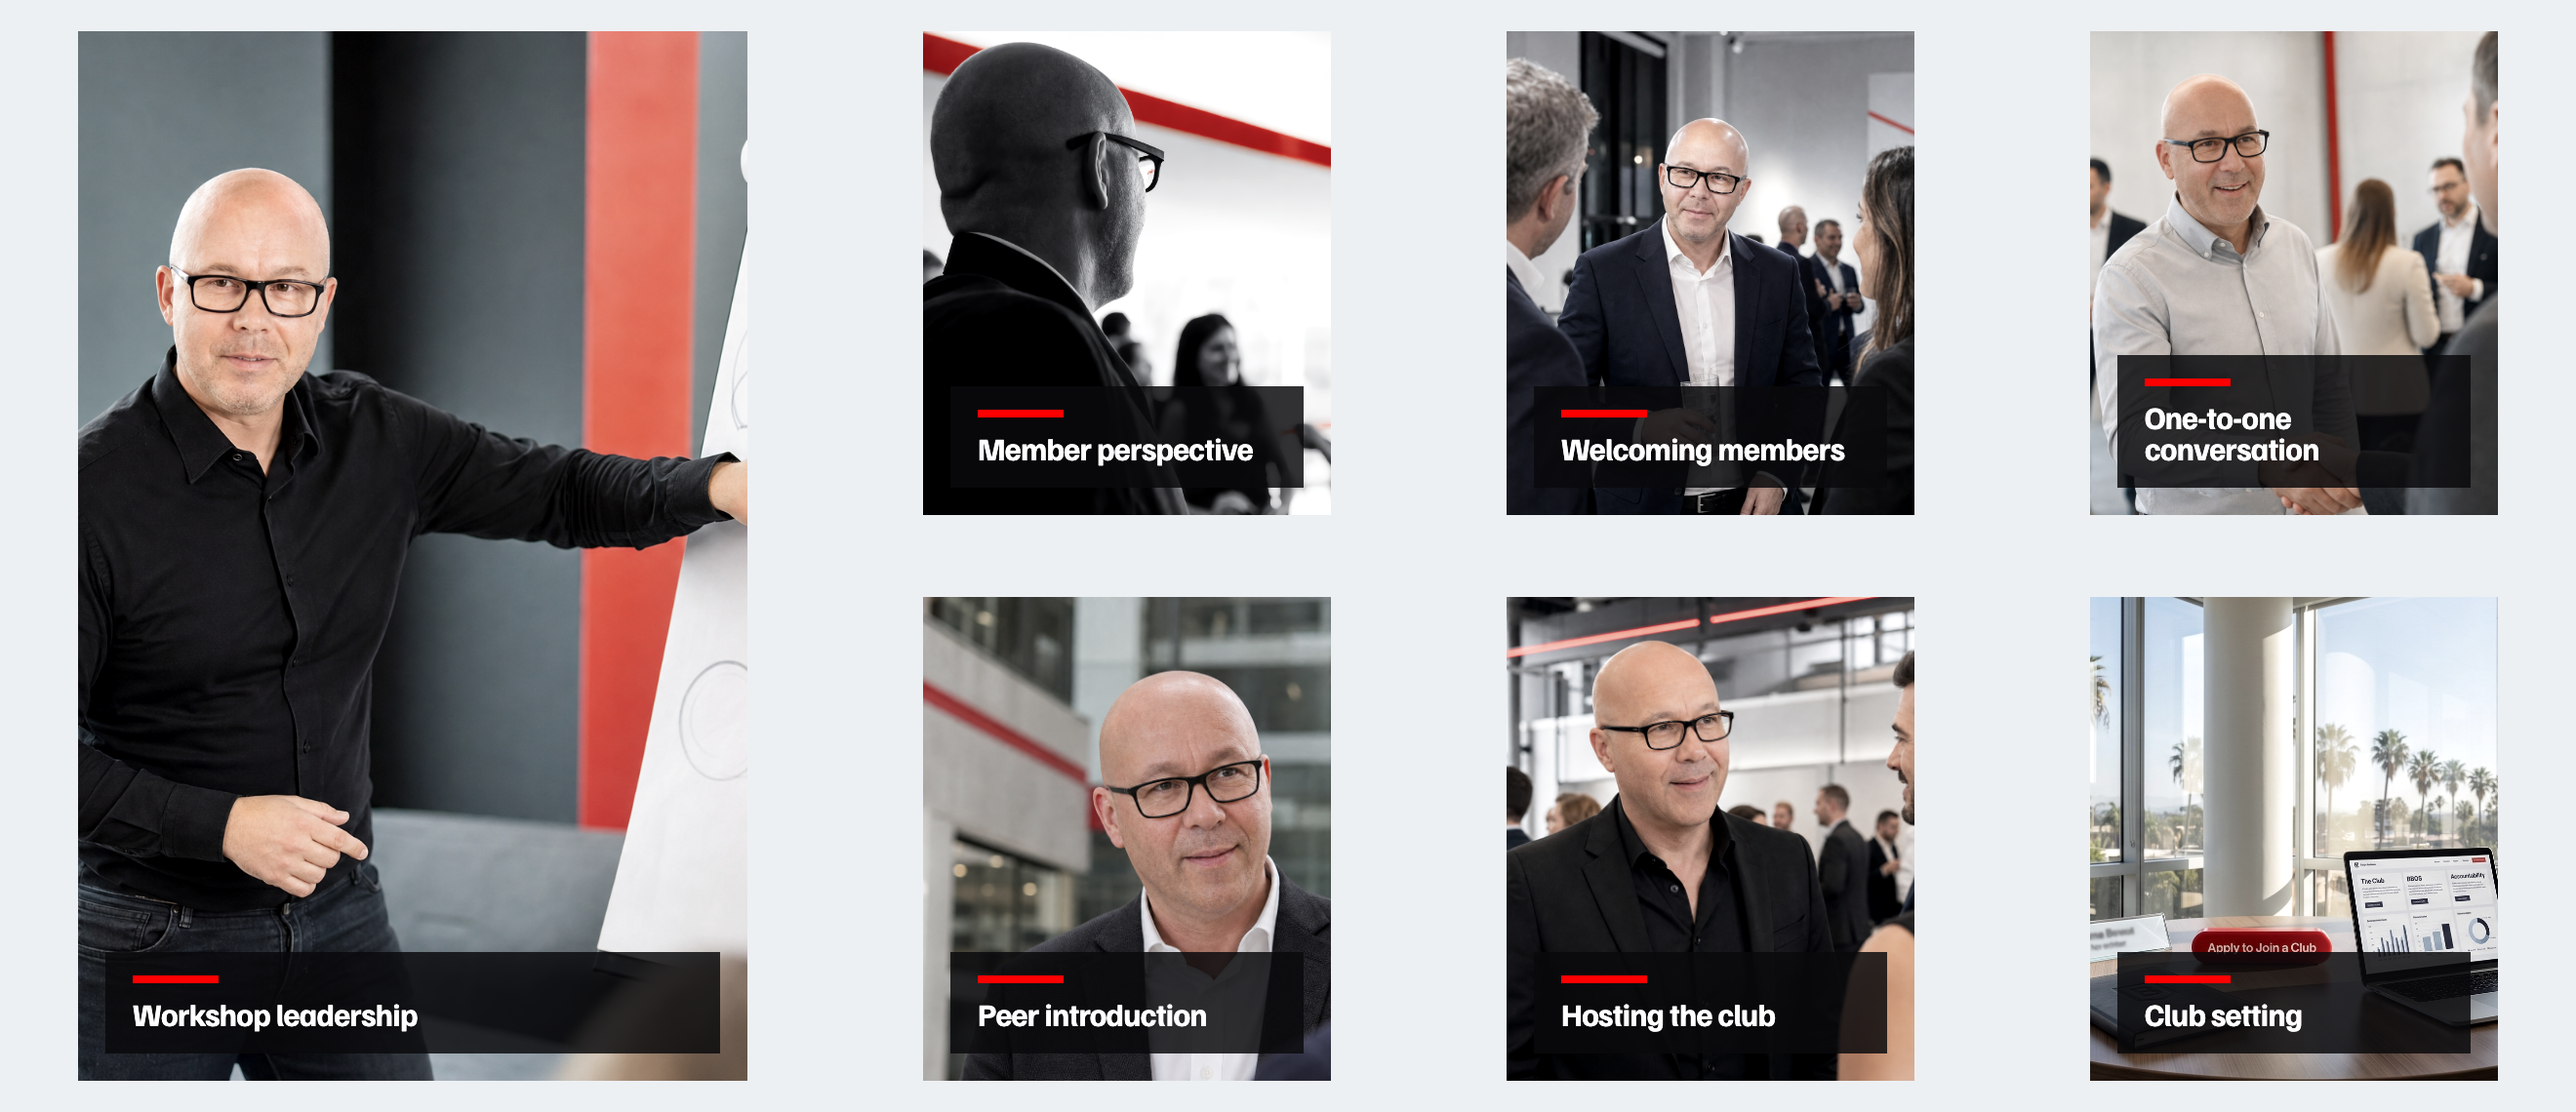
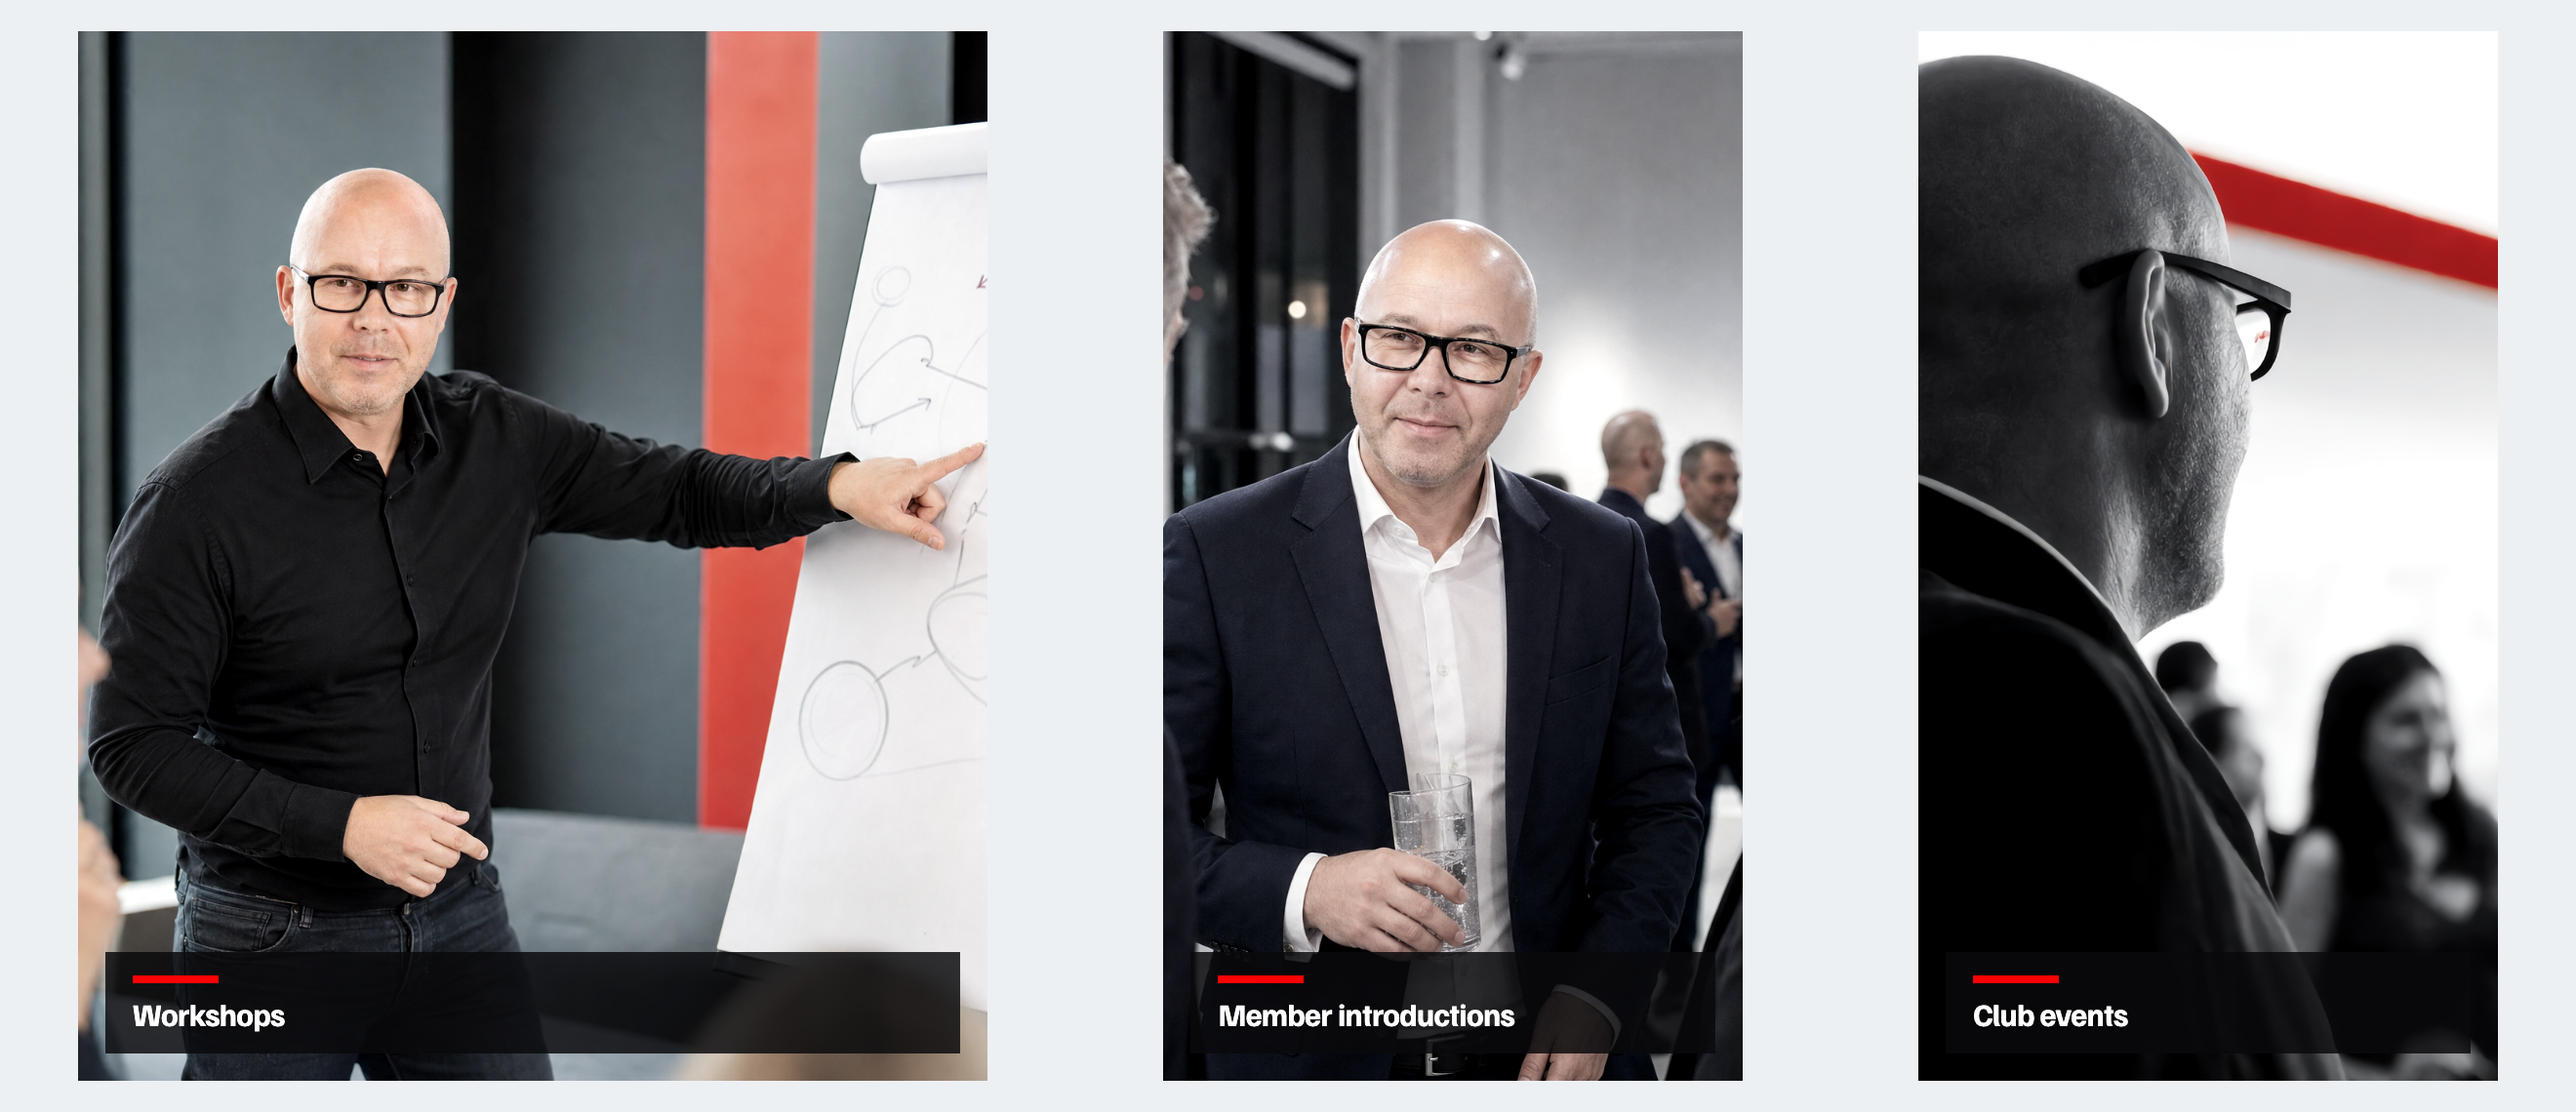
Simplify Bright Business reveal ending

diff --git a/bright-business/index.html b/bright-business/index.html
@@ -1618,8 +1618,8 @@
     }
     .community-grid {
       display: grid;
-      grid-template-columns: 1.2fr .82fr .82fr .82fr;
-      grid-template-rows: repeat(2, minmax(0, 1fr));
+      grid-template-columns: 1.45fr 1fr 1fr;
+      grid-template-rows: minmax(0, 1fr);
       gap: 10px;
       height: min(62vh, 570px);
     }
@@ -1629,8 +1629,6 @@
       overflow: hidden;
       background: #17181c;
     }
-    .community-card.lead { grid-row: 1 / -1; }
-    .community-card.wide { grid-column: span 2; }
     .community-card img { width: 100%; height: 100%; object-fit: cover; filter: saturate(.74) contrast(1.06); }
     .community-card figcaption {
       position: absolute;
@@ -1724,6 +1722,52 @@
     }
     .editorial-card-copy span { color: #5c616d; font: 400 .68rem/1.35 "Poppins", sans-serif; }
 
+    .editorial-portrait-scene {
+      position: relative;
+      min-height: 100svh;
+      padding: 0;
+      align-items: stretch;
+      overflow: hidden;
+    }
+    .editorial-portrait-scene > img {
+      position: absolute;
+      inset: 0;
+      width: 100%;
+      height: 100%;
+      object-fit: cover;
+      object-position: 50% 50%;
+      filter: contrast(1.04);
+    }
+    .editorial-portrait-scene::after {
+      content: "";
+      position: absolute;
+      inset: 0;
+      background: linear-gradient(90deg, rgba(7,7,9,.9) 0 31%, rgba(7,7,9,.32) 56%, transparent 78%);
+      pointer-events: none;
+    }
+    .editorial-portrait-scene .inner {
+      position: relative;
+      z-index: 1;
+      width: min(1320px, 100%);
+      display: flex;
+      align-items: flex-end;
+      padding-top: 88px;
+      padding-bottom: clamp(72px, 9vh, 110px);
+    }
+    .editorial-portrait-copy { max-width: 560px; }
+    .editorial-portrait-copy .kicker { color: #d0d3d9; }
+    .editorial-portrait-copy .statement {
+      max-width: 9ch;
+      margin-top: 16px;
+      font-size: clamp(3.5rem, 7vw, 7.7rem);
+      line-height: .88;
+    }
+    .editorial-portrait-copy .body {
+      max-width: 36ch;
+      margin-top: 24px;
+      color: #d0d3d9;
+    }
+
     .finale-scene {
       min-height: 100svh;
       padding: 0;
@@ -1733,11 +1777,13 @@
     }
     .finale-scene .inner {
       width: 100%;
-      display: grid;
-      grid-template-columns: minmax(440px, .82fr) minmax(0, 1.18fr);
+      min-height: 100svh;
+      display: flex;
+      align-items: stretch;
       padding: 0;
     }
     .finale-copy {
+      width: 100%;
       display: flex;
       flex-direction: column;
       justify-content: center;
@@ -1749,34 +1795,10 @@
       font: 700 clamp(3.6rem, 7vw, 7.8rem)/.86 "Familjen Grotesk", sans-serif;
       letter-spacing: -.06em;
     }
-    .finale-copy p { max-width: 38ch; margin-top: 24px; color: #d1d4da; font: 400 .92rem/1.55 "Poppins", sans-serif; }
-    .finale-apps {
-      display: flex;
-      flex-wrap: wrap;
-      gap: 8px;
-      margin-top: 32px;
-    }
-    .finale-apps span {
-      padding: 8px 11px;
-      border: 1px solid rgba(255,255,255,.28);
-      font: 500 .64rem/1 "Poppins", sans-serif;
-      letter-spacing: .08em;
-      text-transform: uppercase;
-    }
-    .finale-media { position: relative; min-height: 100svh; overflow: hidden; }
-    .finale-media img { width: 100%; height: 100%; object-fit: cover; object-position: 50% 50%; filter: saturate(.72) contrast(1.06); }
-    .finale-media::after {
-      content: "";
-      position: absolute;
-      inset: 0;
-      background: linear-gradient(90deg, rgba(66,65,78,.74), transparent 22%);
-      pointer-events: none;
-    }
     .finale-join {
-      position: absolute;
-      z-index: 2;
-      right: clamp(30px, 5vw, 72px);
-      bottom: clamp(30px, 5vw, 64px);
+      display: inline-flex;
+      align-self: flex-start;
+      margin-top: 36px;
       padding: 14px 22px;
       border-radius: 999px;
       background: var(--red);
@@ -1824,14 +1846,10 @@
       .social-card { min-height: 420px; }
       .community-grid { grid-template-columns: 1fr 1fr; }
       .community-card { min-height: 320px; }
-      .community-card.lead { grid-row: auto; }
-      .community-card.wide { grid-column: span 1; }
       .editorial-grid { grid-template-columns: 1fr; }
       .editorial-lead { min-height: 560px; }
       .editorial-stack { min-height: 620px; }
-      .finale-scene .inner { grid-template-columns: 1fr; }
-      .finale-copy { min-height: 62svh; }
-      .finale-media { min-height: 70svh; }
+      .finale-copy { min-height: 100svh; }
     }
 
     .chapter-toggle {
@@ -2036,7 +2054,8 @@
         position: sticky;
         top: 0;
         height: auto;
-        padding: 16px 16px 8px;
+        min-height: 72px;
+        padding: 16px 16px 8px 72px;
         background: color-mix(in srgb, var(--star-ink) calc((1 - var(--star-t)) * 100%), var(--star-paper) calc(var(--star-t) * 100%));
       }
       .star-rail {
@@ -2112,7 +2131,7 @@
     <section class="scene black" data-chapter="intro">
       <div class="inner">
         <p class="kicker reveal">Brand Therapy</p>
-        <h2 class="statement reveal delay">A new direction for Bright Business</h2>
+        <h2 class="statement reveal delay">Your Brand Therapy is ready</h2>
         <p class="body reveal delay">The strategy comes first. Then a visual system for how Florin and Bright Business show up everywhere.</p>
       </div>
     </section>
@@ -2300,10 +2319,9 @@
       <div class="inner">
         <div class="system-head">
           <div>
-            <p class="kicker reveal">Founder image system</p>
-            <h2 class="statement reveal delay">One image system across six roles</h2>
+            <p class="kicker reveal">Photography</p>
+            <h2 class="statement reveal delay">The photographs Florin will need</h2>
           </div>
-          <p class="body reveal delay">Portrait, press, workshop, host, social, and editorial images give each channel the right view of Florin without changing the visual language.</p>
         </div>
         <div class="founder-photo-grid reveal delay">
           <figure class="founder-photo-card lead">
@@ -2381,42 +2399,32 @@
       <div class="inner">
         <div class="system-head">
           <div>
-            <p class="kicker reveal">Community and event system</p>
-            <h2 class="statement reveal delay">Show the work inside the club</h2>
+            <p class="kicker reveal">Community and events</p>
+            <h2 class="statement reveal delay">Workshops, introductions, and club events</h2>
           </div>
-          <p class="body reveal delay">Workshops, introductions, peer conversations, and club settings make the member experience visible.</p>
         </div>
         <figure class="fixed-application reveal delay">
-          <img src="media/fixed/community-system.png" alt="Fixed community and event image system for Bright Business Club">
+          <img src="media/fixed/community-system.png" alt="Workshop, member introduction, and club event photography for Bright Business Club">
         </figure>
       </div>
     </section>
-    <section class="scene editorial-scene fixed-application-scene" data-chapter="brand">
+    <section class="scene editorial-scene editorial-portrait-scene" data-chapter="brand">
+      <img src="media/approved/artistic-reflection.png" alt="Editorial portrait of Florin Diumea">
       <div class="inner">
-        <div class="system-head">
-          <div>
-            <p class="kicker reveal">Founder editorial system</p>
-            <h2 class="statement reveal delay">A publishing system between events</h2>
-          </div>
-          <p class="body reveal delay">Working notes, reflections, and candid images let Florin stay visible without turning every post into a campaign.</p>
+        <div class="editorial-portrait-copy">
+          <p class="kicker reveal">Editorial</p>
+          <h2 class="statement reveal delay">Florin, between events</h2>
+          <p class="body reveal delay">Working notes. Essays. Candid photographs.</p>
         </div>
-        <figure class="fixed-application reveal delay">
-          <img src="media/fixed/editorial-system.png" alt="Fixed editorial feature, working note, and candid artwork system for Florin Diumea">
-        </figure>
       </div>
     </section>
 
     <section class="scene finale-scene" data-chapter="brand">
       <div class="inner">
         <div class="finale-copy">
-          <p class="kicker reveal">The complete system</p>
+          <p class="kicker reveal">Bright Business Club</p>
           <h2 class="reveal delay">The club, in the world.</h2>
-          <p class="reveal delay">LinkedIn, social, video, speaking, press, workshops, and community now share one visual system. Florin is the origin. The club is what people join.</p>
-          <div class="finale-apps reveal delay"><span>LinkedIn</span><span>Social</span><span>Video</span><span>Speaker</span><span>Press</span><span>Workshops</span><span>Community</span></div>
-        </div>
-        <div class="finale-media">
-          <img src="media/approved/executive-seated.png" alt="Executive portrait of Florin Diumea">
-          <span class="finale-join">Apply to Join a Club</span>
+          <span class="finale-join reveal delay">Apply to Join a Club</span>
         </div>
       </div>
     </section>
